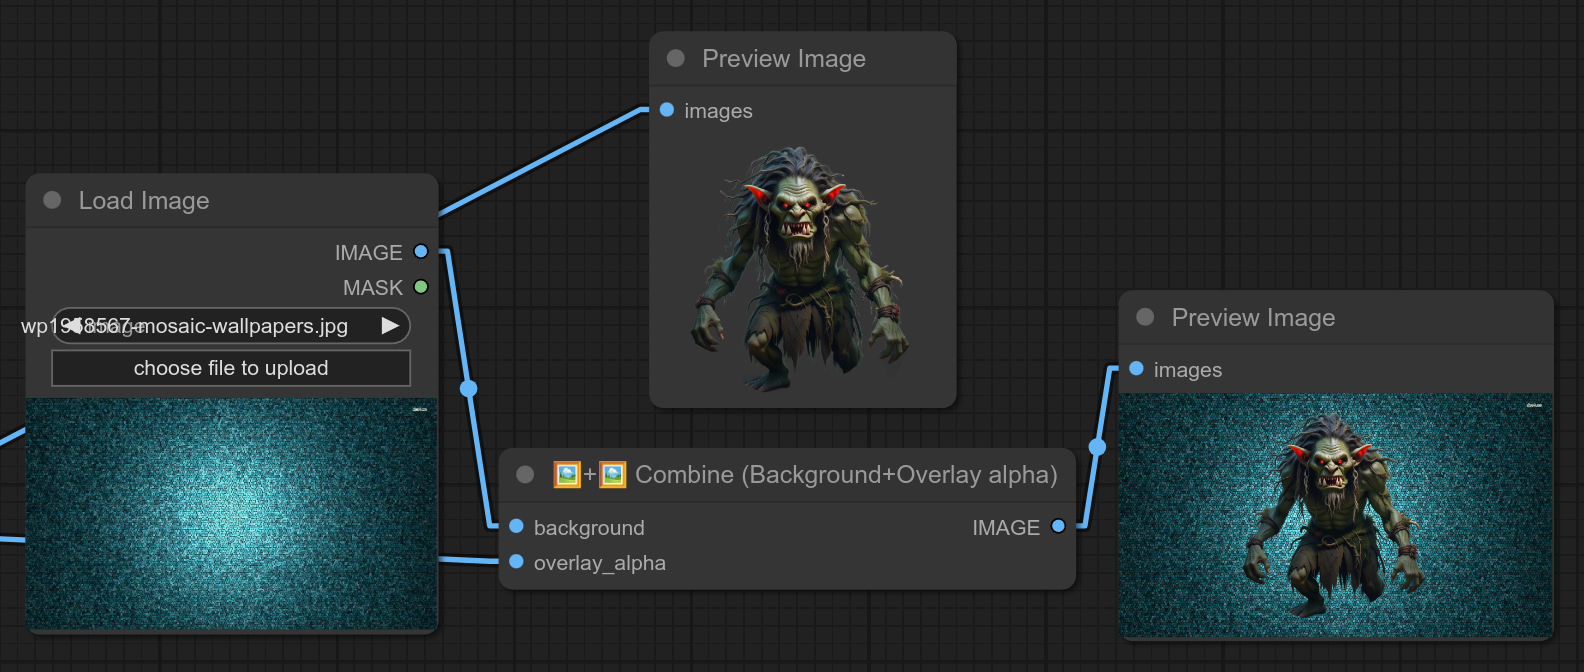
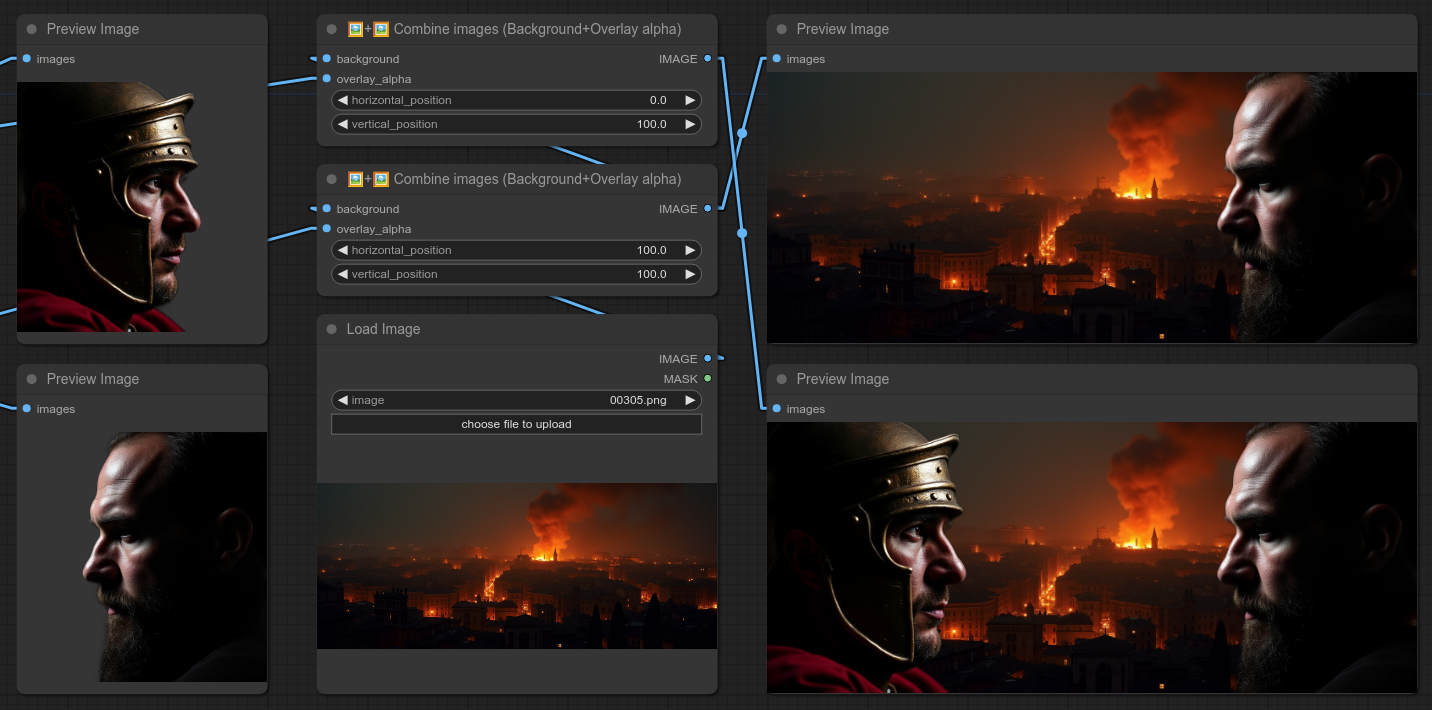
v0.12

diff --git a/combine_background_overlay.py b/combine_background_overlay.py
@@ -9,7 +9,8 @@ class CombineBackgroundOverlay:
             "required": {
                 "background": ("IMAGE",),
                 "overlay_alpha": ("IMAGE",),
-                "position": (["middle", "top", "bottom"],),
+                "horizontal_position": ("FLOAT", {"default": 50, "min": -50, "max": 150, "step": 0.1}),
+                "vertical_position": ("FLOAT", {"default": 50, "min": -50, "max": 150, "step": 0.1}),
             },
         }
 
@@ -17,7 +18,7 @@ class CombineBackgroundOverlay:
     FUNCTION = "combine_background_overlay"
     CATEGORY = "Bjornulf"
 
-    def combine_background_overlay(self, background, overlay_alpha, position):
+    def combine_background_overlay(self, background, overlay_alpha, horizontal_position, vertical_position):
         # Convert background from torch tensor to numpy array
         bg = background[0].numpy()
         bg = (bg * 255).astype(np.uint8)
@@ -37,14 +38,11 @@ class CombineBackgroundOverlay:
                 ov_img = Image.fromarray(ov, 'RGB')
                 ov_img = ov_img.convert('RGBA')
 
-            # Calculate position based on user selection
-            x = (bg_img.width - ov_img.width) // 2
-            if position == "middle":
-                y = (bg_img.height - ov_img.height) // 2
-            elif position == "top":
-                y = 0
-            else:  # bottom
-                y = bg_img.height - ov_img.height
+            # Calculate horizontal position
+            x = int((horizontal_position / 100) * (bg_img.width - ov_img.width))
+
+            # Calculate vertical position
+            y = int((vertical_position / 100) * (bg_img.height - ov_img.height))
 
             # Create a new image for this overlay
             result = Image.new('RGBA', bg_img.size, (0, 0, 0, 0))
@@ -52,7 +50,7 @@ class CombineBackgroundOverlay:
             # Paste the background
             result.paste(bg_img, (0, 0))
 
-            # Paste the overlay in the selected position
+            # Paste the overlay in the calculated position
             result.paste(ov_img, (x, y), ov_img)
 
             # Convert back to numpy array and then to torch tensor

diff --git a/README.md b/README.md
@@ -1,4 +1,4 @@
-# 🔗 Comfyui : Bjornulf_custom_nodes v0.11 🔗
+# 🔗 Comfyui : Bjornulf_custom_nodes v0.12 🔗
 
 # Dependencies
 
@@ -20,6 +20,7 @@
 - **v0.9**: Add a new node : Return one random line from input.
 - **v0.10**: Add a new node : Loop (All Lines from input) - Iterate over all lines from an input text.
 - **v0.11**: Add a new node : Text with random Seed - Generate a random seed, along with text.
+- **v0.12**: Combine images : Add option to move vertically and horizontally. (from -50% to 150%)
 
 # 📝 Nodes descriptions
 
@@ -172,8 +173,8 @@ But you can sometimes also want a black and white image...
 ![Combine Images](screenshots/combine_background_overlay.png)
 
 **Description:**  
-Combine two images into a single image : a background and one (or several) transparent overlay. (allow for video frames.)  
-Update 0.8 : Also have a option to put image top, bottom or center.
+Combine two images into a single image : a background and one (or several) transparent overlay. (allow to have a video there, just send all the frames and recombine them after.)  
+Update 0.11 : Add option to move vertically and horizontally. (from -50% to 150%)  
 ❗ Warning : For now, `background` is a static image. (I will allow video there later too.)  
 
 ## 25 - 🟩➜▢ Green Screen to Transparency
